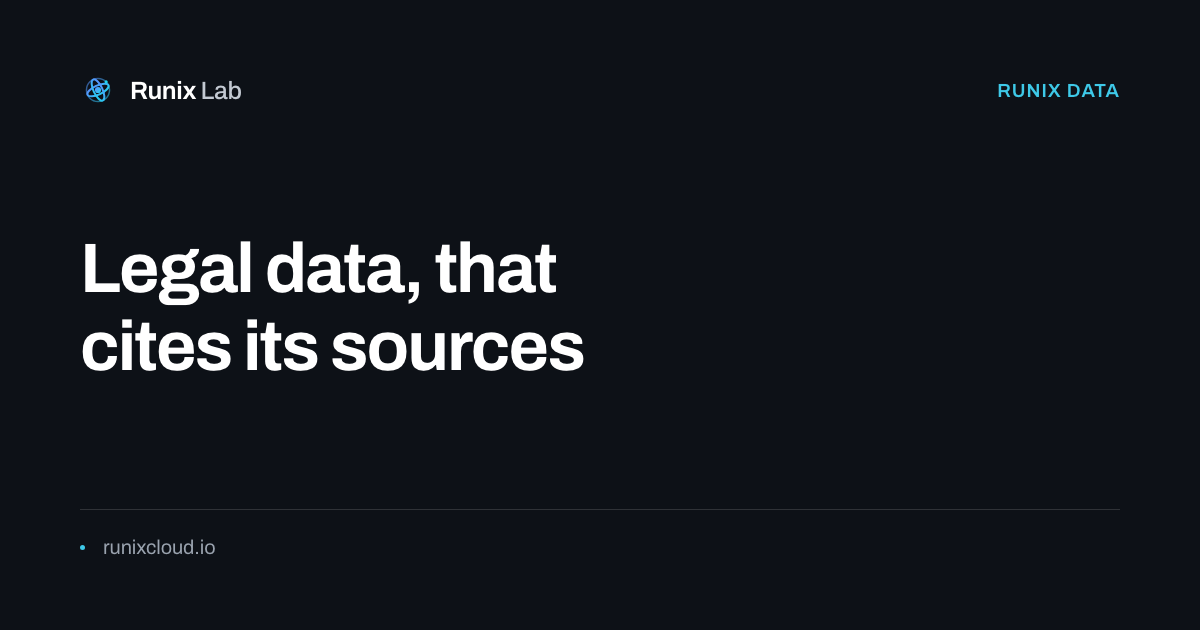
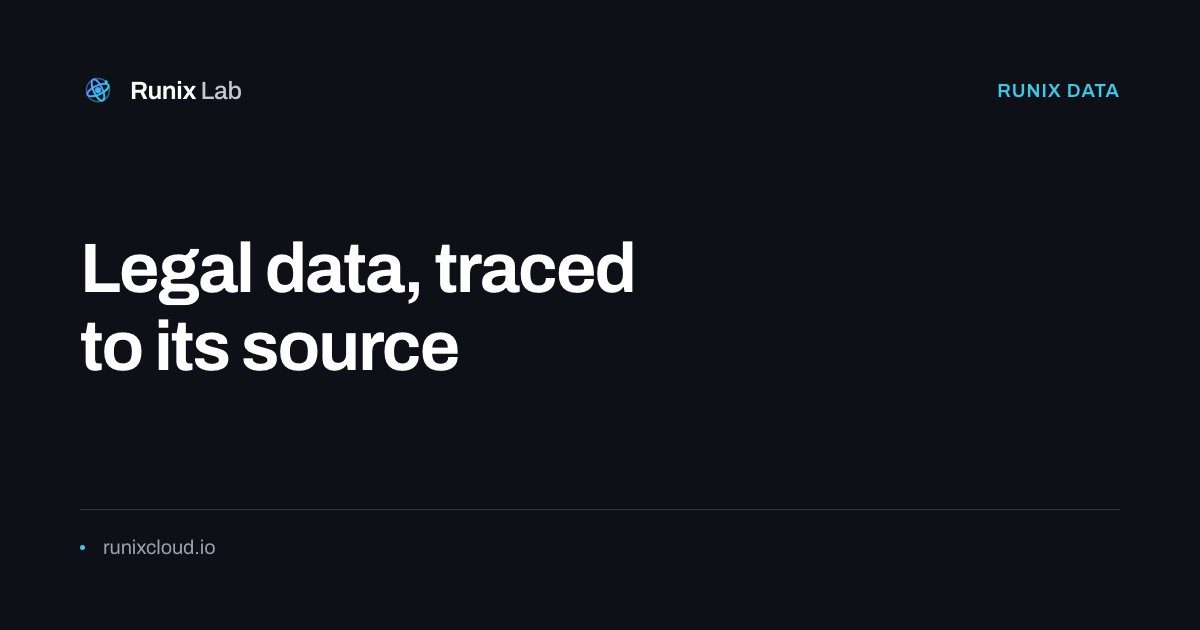
og: Legal card follows its heading

Changed region(s): [[0.0617, 0.5127, 0.4933, 0.6032], [0.37, 0.3921, 0.555, 0.4825]]

diff --git a/legal-data.html b/legal-data.html
@@ -21,11 +21,11 @@
 <meta property="og:type" content="website">
 <meta property="og:url" content="https://runixcloud.io/legal-data">
 <meta property="og:site_name" content="Runix Lab">
-<meta property="og:image" content="https://runixcloud.io/assets/og/legal-data.png?v=5883c8f4">
+<meta property="og:image" content="https://runixcloud.io/assets/og/legal-data.png?v=a24cce2b">
 <meta property="og:image:width" content="1200">
 <meta property="og:image:height" content="630">
 <meta name="twitter:card" content="summary_large_image">
-<meta name="twitter:image" content="https://runixcloud.io/assets/og/legal-data.png?v=5883c8f4">
+<meta name="twitter:image" content="https://runixcloud.io/assets/og/legal-data.png?v=a24cce2b">
 <link rel="icon" href="assets/favicon.svg?v=11" type="image/svg+xml">
 <link rel="preload" href="assets/fonts/archivo-latin.woff2?v=2" as="font" type="font/woff2" crossorigin>
 <link rel="stylesheet" href="assets/style.css?v=66">
